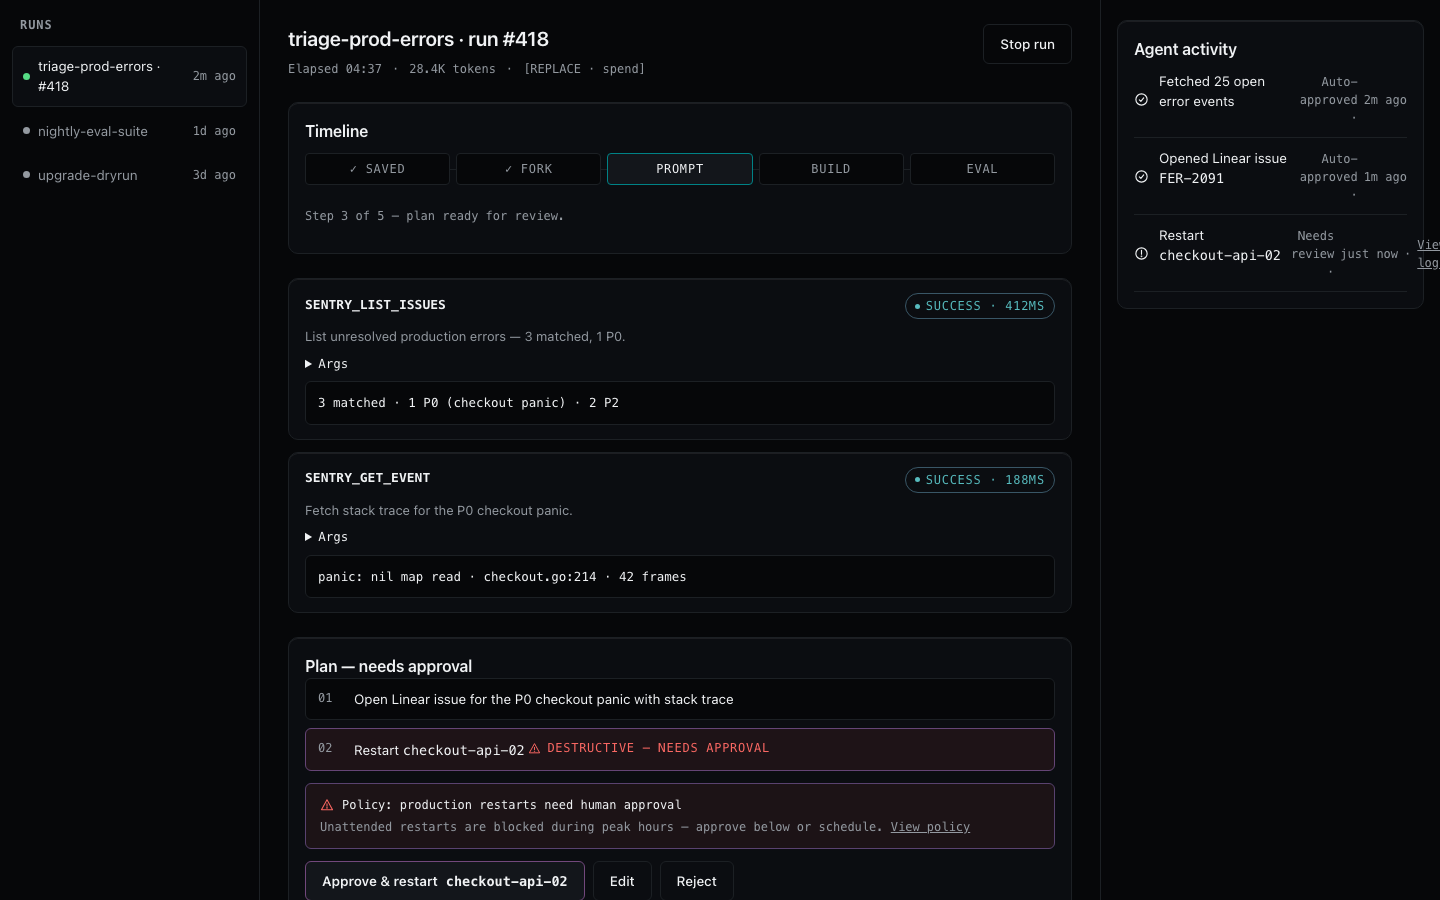
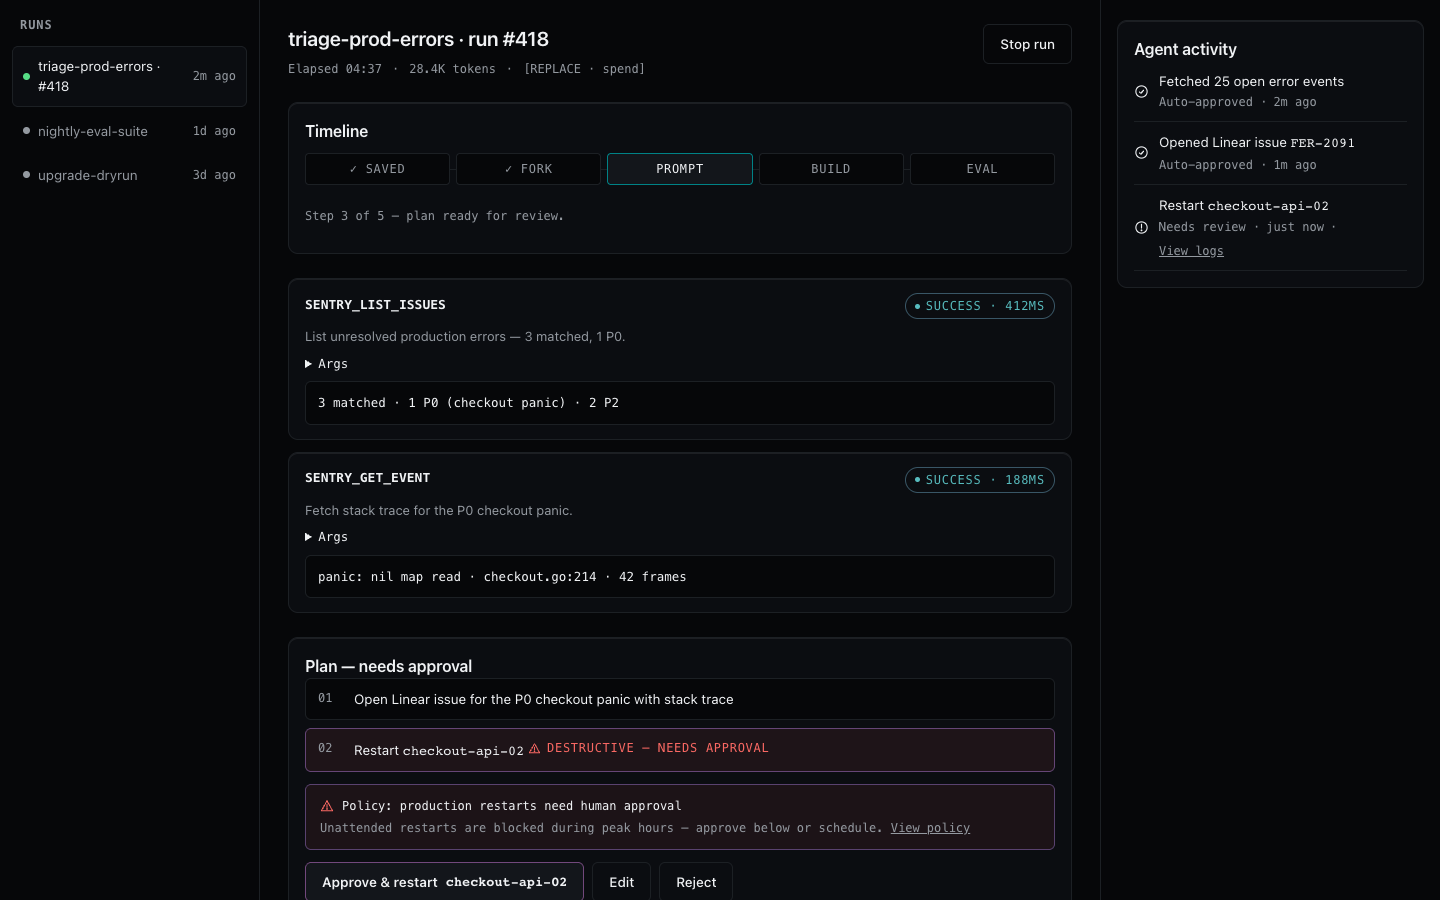
v1.3.2 — mobile overflow hotfix (minmax collapse, stacked feed meta, thread after eval)

diff --git a/demo/agent.html b/demo/agent.html
@@ -172,18 +172,21 @@
     .guardrail-head { display: flex; align-items: center; gap: 8px; margin: 0 0 4px; color: var(--fg); }
     .guardrail-head svg { width: 14px; height: 14px; flex: none; color: var(--danger); }
     .feed { list-style: none; margin: 0; padding: 0; display: flex; flex-direction: column; gap: 10px; }
-    .feed li { display: flex; align-items: baseline; gap: 10px; border-bottom: 1px solid var(--border); padding-bottom: 10px; font-size: 13.5px; }
-    .feed li > svg { width: 15px; height: 15px; flex: none; align-self: center; }
-    .feed .feed-status { display: inline-flex; align-items: center; gap: 6px; margin-left: auto; text-align: right; }
+    .feed li { display: grid; grid-template-columns: auto minmax(0, 1fr); gap: 2px 10px; align-items: baseline; border-bottom: 1px solid var(--border); padding-bottom: 10px; font-size: 13.5px; min-width: 0; }
+    .feed li > span { min-width: 0; }
+    .feed li > svg { width: 15px; height: 15px; flex: none; align-self: center; grid-row: span 2; }
+    .feed .feed-status { display: inline-flex; align-items: center; gap: 6px; flex-wrap: wrap; grid-column: 2; }
     .feed time { white-space: nowrap; }
 
     @media (max-width: 920px) {
-      .agent-shell { grid-template-columns: 1fr; }
+      .agent-shell { grid-template-columns: minmax(0, 1fr); }
       .runs { flex-direction: row; overflow-x: auto; border-right: 0; border-bottom: 1px solid var(--border); }
       .inspector { border-left: 0; border-top: 1px solid var(--border); }
       .run-main { padding: 20px 16px; }
       .run-head { flex-direction: column; align-items: stretch; }
       .run-head .btn { align-self: flex-start; }
+      .agent-shell > *, .run-main, .card, .tool-call, .plan-steps li, #run-thread, #thread-view { min-width: 0; }
+      .tool-name, .plan-steps code, .feed code { white-space: normal; overflow-wrap: anywhere; }
       .dag { display: flex; overflow-x: auto; padding-bottom: 4px; }
       .dag span { flex: 0 0 auto; min-width: 96px; }
       .approval-bar {
@@ -267,6 +270,16 @@
         </div>
       </section>
 
+      <section class="card" data-design-id="run-eval" aria-label="Eval receipt">
+        <div class="tool-call" data-tool-call="EVAL_SUITE" data-status="queued" data-latency="—" style="border: 0; padding: 0; box-shadow: none; background: transparent;">
+          <div class="tool-head">
+            <span class="tool-name">EVAL_SUITE</span>
+            <span class="pill"><span class="dot"></span>Queued · —</span>
+          </div>
+          <p class="tool-purpose">Runs after approval — 4 checks · cost and duration reported on completion.</p>
+        </div>
+      </section>
+
       <section id="thread-view" data-design-id="thread-view" aria-label="Thread view">
         <div class="card">
           <h2>Thread</h2>
@@ -285,16 +298,6 @@
           <pre class="tool-output">3 matched · 1 P0 (checkout panic) · 2 P2</pre>
         </div>
         <p class="meta" aria-live="polite">Working — drafting the triage summary…</p>
-      </section>
-
-      <section class="card" data-design-id="run-eval" aria-label="Eval receipt">
-        <div class="tool-call" data-tool-call="EVAL_SUITE" data-status="queued" data-latency="—" style="border: 0; padding: 0; box-shadow: none; background: transparent;">
-          <div class="tool-head">
-            <span class="tool-name">EVAL_SUITE</span>
-            <span class="pill"><span class="dot"></span>Queued · —</span>
-          </div>
-          <p class="tool-purpose">Runs after approval — 4 checks · cost and duration reported on completion.</p>
-        </div>
       </section>
     </main>
 

diff --git a/assets/prototype-seed.html b/assets/prototype-seed.html
@@ -165,7 +165,7 @@
     @media (max-width: 920px) {
       .grid-2, .grid-3, .grid-4, .grid-2-1, .grid-1-2,
       .bento-hairline, .bento-hairline.cols-2, .bento-hairline.cols-2-1, .bento-hairline.cols-1-2 {
-        grid-template-columns: 1fr;
+        grid-template-columns: minmax(0, 1fr);
       }
       .bento-cell.span-2 { grid-column: span 1; }
     }
@@ -308,7 +308,7 @@
     .hero-center .hero-cta { justify-content: center; }
     .hero-split { display: grid; grid-template-columns: 1fr 1fr; gap: var(--gap-2xl); align-items: center; }
     .hero-split .lead { margin-inline: 0; }
-    @media (max-width: 920px) { .hero-split { grid-template-columns: 1fr; } }
+    @media (max-width: 920px) { .hero-split { grid-template-columns: minmax(0, 1fr); } }
 
     .hero-stage { margin-top: clamp(40px, 5vw, 64px); }
     .app-window {
@@ -367,7 +367,7 @@
       font-size: 13.5px;
     }
     @media (max-width: 920px) {
-      .app-panes, .app-panes.cols-2 { grid-template-columns: 1fr; }
+      .app-panes, .app-panes.cols-2 { grid-template-columns: minmax(0, 1fr); }
     }
 
     /* ── numbered index showcase (Composio 01-04 pattern) ─────────────── */
@@ -434,7 +434,7 @@
     }
     .spec-list li strong { color: var(--fg); font-weight: 500; }
     @media (max-width: 920px) {
-      .index-showcase { grid-template-columns: 1fr; }
+      .index-showcase { grid-template-columns: minmax(0, 1fr); }
     }
 
     /* ── schematic & telemetry micro-components (Daytona DAG / CLI pills) */
@@ -640,7 +640,7 @@
     .log-row h3 { font-size: 18px; }
     .log-row p { margin: 4px 0 0; color: var(--muted); font-size: 14px; }
     .log-row .pull { text-align: right; }
-    @media (max-width: 920px) { .log-row { grid-template-columns: 1fr; gap: var(--gap-xs); } }
+    @media (max-width: 920px) { .log-row { grid-template-columns: minmax(0, 1fr); gap: var(--gap-xs); } }
 
     /* ── pricing ──────────────────────────────────────────────────────── */
     .card-emphasis { border-color: var(--fg); }

diff --git a/assets/agent-ux-patterns.html b/assets/agent-ux-patterns.html
@@ -143,9 +143,10 @@
     .guardrail-head { display: flex; align-items: center; gap: 8px; margin: 0 0 4px; color: var(--fg); }
     .guardrail-head svg { width: 14px; height: 14px; flex: none; color: var(--danger); }
     .feed { list-style: none; margin: 0; padding: 0; display: flex; flex-direction: column; gap: 10px; }
-    .feed li { display: flex; align-items: baseline; gap: 10px; border-bottom: 1px solid var(--border); padding-bottom: 10px; font-size: 13.5px; }
-    .feed li > svg { width: 15px; height: 15px; flex: none; align-self: center; }
-    .feed .feed-status { display: inline-flex; align-items: center; gap: 6px; margin-left: auto; text-align: right; }
+    .feed li { display: grid; grid-template-columns: auto minmax(0, 1fr); gap: 2px 10px; align-items: baseline; border-bottom: 1px solid var(--border); padding-bottom: 10px; font-size: 13.5px; min-width: 0; }
+    .feed li > span { min-width: 0; }
+    .feed li > svg { width: 15px; height: 15px; flex: none; align-self: center; grid-row: span 2; }
+    .feed .feed-status { display: inline-flex; align-items: center; gap: 6px; flex-wrap: wrap; grid-column: 2; }
     .feed .feed-status svg { width: 13px; height: 13px; flex: none; }
     .feed code { white-space: nowrap; }
     .feed time { white-space: nowrap; }
@@ -169,6 +170,8 @@
     @media (max-width: 920px) {
       .dag { display: flex; overflow-x: auto; padding-bottom: 4px; }
       .dag span { flex: 0 0 auto; min-width: 96px; }
+      .tool-call, .plan-steps li { min-width: 0; }
+      .tool-name, .plan-steps code, .feed code { white-space: normal; overflow-wrap: anywhere; }
       .approval-bar {
         position: sticky; bottom: 0; z-index: 5;
         background: var(--surface);

diff --git a/tests/fixtures/bad-mobile-grid.html b/tests/fixtures/bad-mobile-grid.html
@@ -1,0 +1,28 @@
+<!doctype html>
+<html lang="en">
+<head>
+  <meta charset="utf-8" />
+  <meta name="viewport" content="width=device-width, initial-scale=1" />
+  <title>Bad mobile grid fixture</title>
+  <style>
+    :root {
+      --bg: #fafaf7; --surface: #ffffff; --fg: #1a1916;
+      --muted: #6b6964; --border: #e8e5df; --accent: #c96442;
+    }
+    body { margin: 0; background: var(--bg); color: var(--fg); font-family: system-ui, sans-serif; }
+    .shell { display: grid; grid-template-columns: 240px minmax(0, 1fr); }
+    .btn:focus-visible { outline: 2px solid var(--accent); outline-offset: 2px; }
+    @media (max-width: 920px) {
+      .shell { grid-template-columns: 1fr; }
+    }
+  </style>
+</head>
+<body>
+  <main>
+    <section data-design-id="intro">
+      <h1>One claim, stated plainly.</h1>
+      <p>A short paragraph with no filler and no invented numbers.</p>
+    </section>
+  </main>
+</body>
+</html>

diff --git a/assets/agent-seed.html b/assets/agent-seed.html
@@ -191,12 +191,14 @@
     }
 
     @media (max-width: 920px) {
-      .agent-shell { grid-template-columns: 1fr; }
+      .agent-shell { grid-template-columns: minmax(0, 1fr); }
       .runs { flex-direction: row; overflow-x: auto; border-right: 0; border-bottom: 1px solid var(--border); }
       .inspector { border-left: 0; border-top: 1px solid var(--border); }
       .thread { padding: 20px 16px; }
       .run-head { flex-direction: column; align-items: stretch; }
       .run-head .btn { align-self: flex-start; }
+      .agent-shell > *, .thread, .card, .tool-call, .approval, .plan-steps li { min-width: 0; }
+      .tool-name, .plan-steps code { white-space: normal; overflow-wrap: anywhere; }
       .approval-bar {
         position: sticky; bottom: 0; z-index: 5;
         background: var(--surface);

diff --git a/assets/dashboard-seed.html b/assets/dashboard-seed.html
@@ -260,7 +260,7 @@
 
     /* ── responsive ───────────────────────────────────────────────────── */
     @media (max-width: 920px) {
-      .shell { grid-template-columns: 1fr; }
+      .shell { grid-template-columns: minmax(0, 1fr); }
       .side {
         position: static; height: auto;
         flex-direction: row; align-items: center;
@@ -275,7 +275,7 @@
       .topbar { padding: 12px 16px; }
       .search input { width: 110px; }
       .content { padding: 20px 16px; }
-      .split { grid-template-columns: 1fr; }
+      .split { grid-template-columns: minmax(0, 1fr); }
     }
   </style>
 </head>

diff --git a/demo/dashboard.html b/demo/dashboard.html
@@ -243,7 +243,7 @@
 
     /* ── responsive ───────────────────────────────────────────────────── */
     @media (max-width: 920px) {
-      .shell { grid-template-columns: 1fr; }
+      .shell { grid-template-columns: minmax(0, 1fr); }
       .side {
         position: static; height: auto;
         flex-direction: row; align-items: center;
@@ -259,7 +259,7 @@
       .topbar { padding: 12px 16px; }
       .search input { width: 110px; }
       .content { padding: 20px 16px; }
-      .split { grid-template-columns: 1fr; }
+      .split { grid-template-columns: minmax(0, 1fr); }
     }
   </style>
 </head>

diff --git a/assets/deck-seed.html b/assets/deck-seed.html
@@ -222,7 +222,7 @@
 
     /* ── small-screen reflow ──────────────────────────────────────────── */
     @media (max-width: 920px) {
-      .pt-grid, .pipeline, .ba-grid { grid-template-columns: 1fr; gap: 20px; }
+      .pt-grid, .pipeline, .ba-grid { grid-template-columns: minmax(0, 1fr); gap: 20px; }
       .slide { padding: 40px 28px; }
     }
 

diff --git a/demo/deck.html b/demo/deck.html
@@ -208,7 +208,7 @@
 
     /* ── small-screen reflow ──────────────────────────────────────────── */
     @media (max-width: 920px) {
-      .pt-grid, .pipeline, .ba-grid { grid-template-columns: 1fr; gap: 20px; }
+      .pt-grid, .pipeline, .ba-grid { grid-template-columns: minmax(0, 1fr); gap: 20px; }
       .slide { padding: 40px 28px; }
     }
 

diff --git a/index.html b/index.html
@@ -490,7 +490,7 @@
     @media (max-width: 920px) {
       .topnav-cells nav { display: none; }
       .topnav-cells { grid-template-columns: 1fr auto; }
-      .bento-hairline, .app-panes, .index-showcase { grid-template-columns: 1fr; }
+      .bento-hairline, .app-panes, .index-showcase { grid-template-columns: minmax(0, 1fr); }
       .install-bar { width: 100%; justify-content: space-between; overflow-x: auto; }
     }
 

diff --git a/demo/landing.html b/demo/landing.html
@@ -449,7 +449,7 @@
     @media (max-width: 920px) {
       .topnav-cells nav { display: none; }
       .topnav-cells { grid-template-columns: 1fr auto; }
-      .bento-hairline, .app-panes, .index-showcase { grid-template-columns: 1fr; }
+      .bento-hairline, .app-panes, .index-showcase { grid-template-columns: minmax(0, 1fr); }
     }
   </style>
 </head>

diff --git a/scripts/lint.py b/scripts/lint.py
@@ -345,6 +345,17 @@ def lint(raw_html: str) -> list[Finding]:
                 ))
                 break
 
+    # ── P1-7: single-1fr grid inside a max-width media query ─────────
+    # `1fr` minimums to min-content and overflows fixed viewports — use minmax(0,1fr).
+    for start, end in _media_spans(html):
+        if re.search(r"grid-template-columns\s*:\s*1fr\s*[;}]", html[start:end], re.I):
+            out.append(Finding(
+                "P1", "mobile-grid-1fr",
+                "grid-template-columns: 1fr inside a max-width media query — 1fr minimums to min-content and can overflow narrow viewports.",
+                "Use grid-template-columns: minmax(0, 1fr) and add min-width: 0 to the grid children.",
+            ))
+            break
+
     # ── P2-1: missing comment-mode anchor on <section> ────────────────
     sections = re.findall(r"<section\b[^>]*>", html, re.I)
     tagged = [
@@ -419,6 +430,21 @@ OUTPUT_RE = r"<(?:details|pre)\b[^>]*>|<code\b[^>]*>|\bdata-output\b|class\s*=\s
 
 def _norm_token(s: str) -> str:
     return re.sub(r"[^a-z0-9]", "", (s or "").lower())
+
+
+def _media_spans(body: str) -> list[tuple[int, int]]:
+    """(start, end) spans of @media blocks that carry a max-width query."""
+    spans: list[tuple[int, int]] = []
+    for m in re.finditer(r"@media[^{]*max-width[^{]*\{", body, re.I):
+        depth, pos = 1, m.end()
+        while depth and pos < len(body):
+            if body[pos] == "{":
+                depth += 1
+            elif body[pos] == "}":
+                depth -= 1
+            pos += 1
+        spans.append((m.start(), pos))
+    return spans
 
 
 def _element_span(body: str, open_start: int) -> tuple[int, int]:
